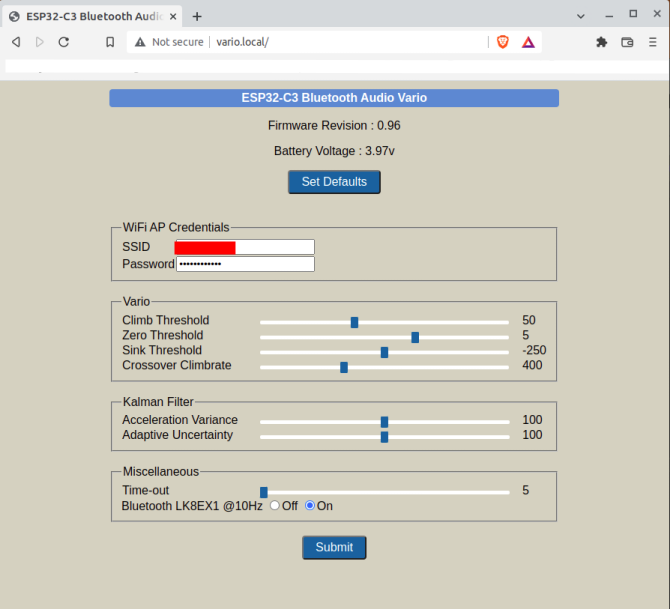
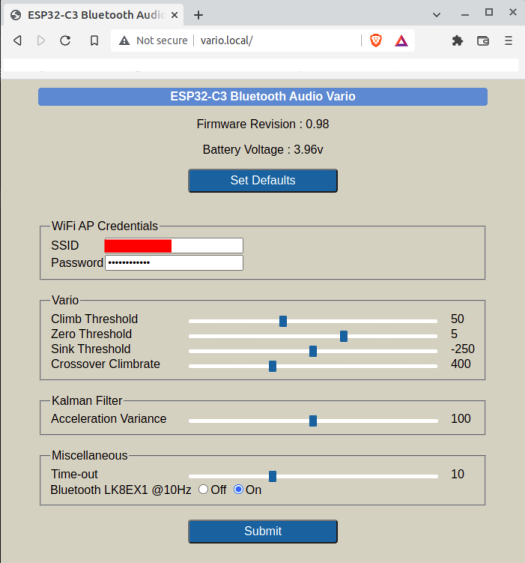
webpage button resize

diff --git a/data/index.html b/data/index.html
@@ -13,7 +13,7 @@
 <p><span>Battery Voltage : </span><span id="batteryVoltage">%BATTERY_VOLTAGE%v</span></p>
 </div>
 <div style="text-align:center;">
-<a href="/defaults"><button>Set Defaults</button></a>
+<a href="/defaults"><button style="width:200px;">Set Defaults</button></a>
 </div>
 <br>
 <br>

diff --git a/data/style.css b/data/style.css
@@ -59,6 +59,7 @@ input[type="number"] {
 	align-self:center;	
 	color:white;
 	margin: auto;
+	width:200px;
 	font-size:1.0em;
    }
 		
